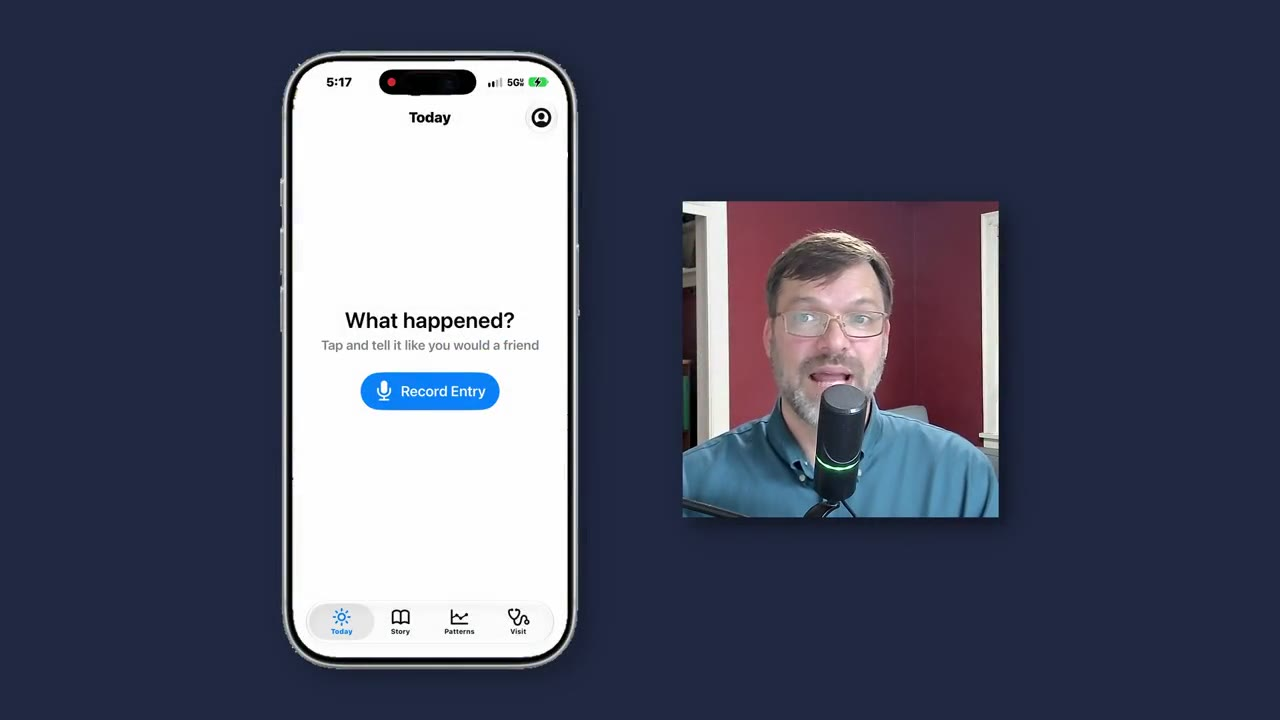
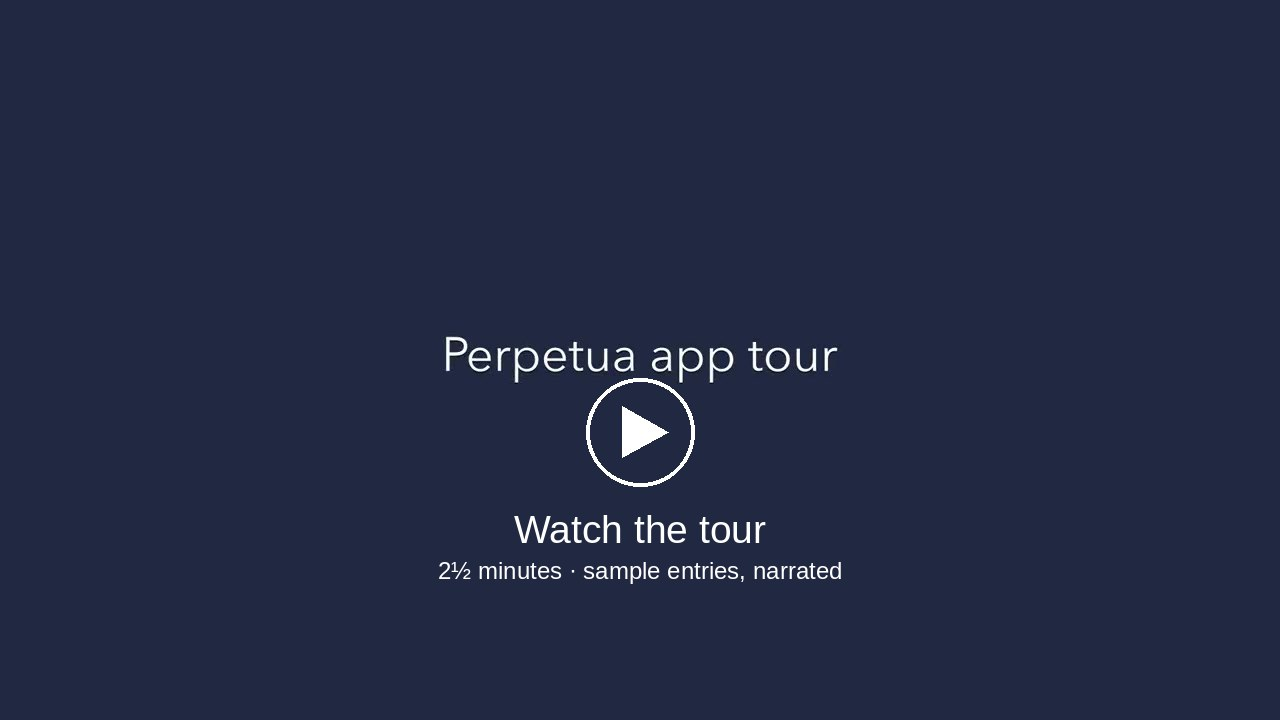
Add files via upload

diff --git a/index.html b/index.html
@@ -19,6 +19,7 @@
     </a>
     <nav class="site">
       <a href="index.html" class="on">Home</a>
+      <a href="index.html#tour" class="vid">Video</a>
       <a href="index.html#how" >How it works</a>
       <a href="index.html#thesis" >The thesis</a>
       <a href="index.html#team" >Team</a>
@@ -35,6 +36,7 @@
       <h1>Your IBD story, in your own words.</h1>
       <p>Between clinic visits, months go by. Perpetua lets you record what happens as it happens, in your own voice, and turns it into a record and a summary that make clear what happened and in what order, for you and your clinician to use.</p>
       <a class="cta" href="#thesis">Read the thesis</a>
+      <a class="cta" href="#tour">Watch the video &middot; 2&frac12; min</a>
       <a class="cta ghost" href="study.html">Research study &middot; opening soon</a>
     </div>
     <div class="hero-art" aria-hidden="true">

diff --git a/styles.css b/styles.css
@@ -39,6 +39,8 @@ nav.site { display: flex; gap: 24px; }
 nav.site a { font-family: var(--sans); font-size: 13.5px; color: var(--ink-soft); text-decoration: none; padding-bottom: 2px; border-bottom: 2px solid transparent; }
 nav.site a:hover { color: var(--deep); }
 nav.site a.on { color: var(--deep); border-bottom-color: var(--accent); }
+nav.site a.vid { color: var(--accent); font-weight: 600; }
+nav.site a.vid::before { content: "\25B6"; font-size: 9px; margin-right: 6px; position: relative; top: -1px; }
 
 /* hero */
 .hero { background: var(--deep); color: #eef0f6; padding: 92px 0 80px; }

diff --git a/study.html b/study.html
@@ -19,6 +19,7 @@
     </a>
     <nav class="site">
       <a href="index.html" >Home</a>
+      <a href="index.html#tour" class="vid">Video</a>
       <a href="index.html#how" >How it works</a>
       <a href="index.html#thesis" >The thesis</a>
       <a href="index.html#team" >Team</a>
